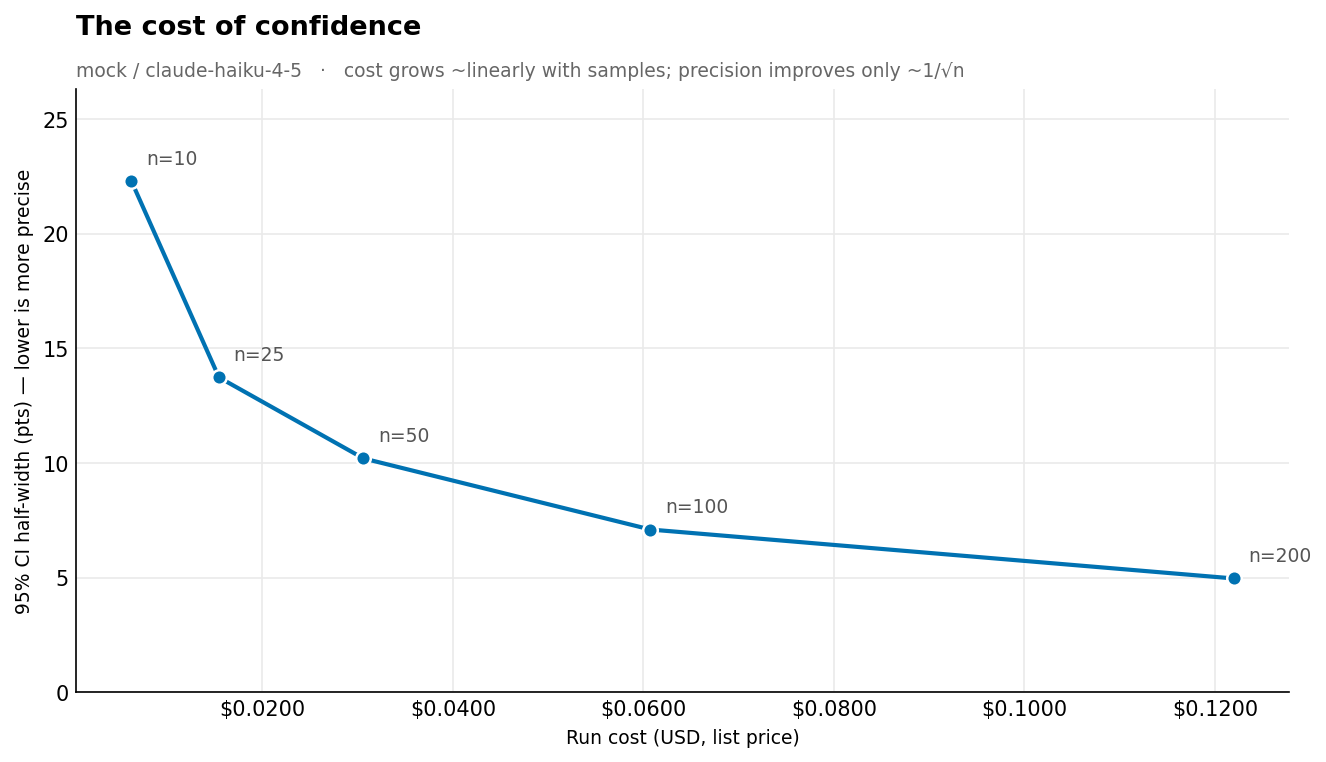
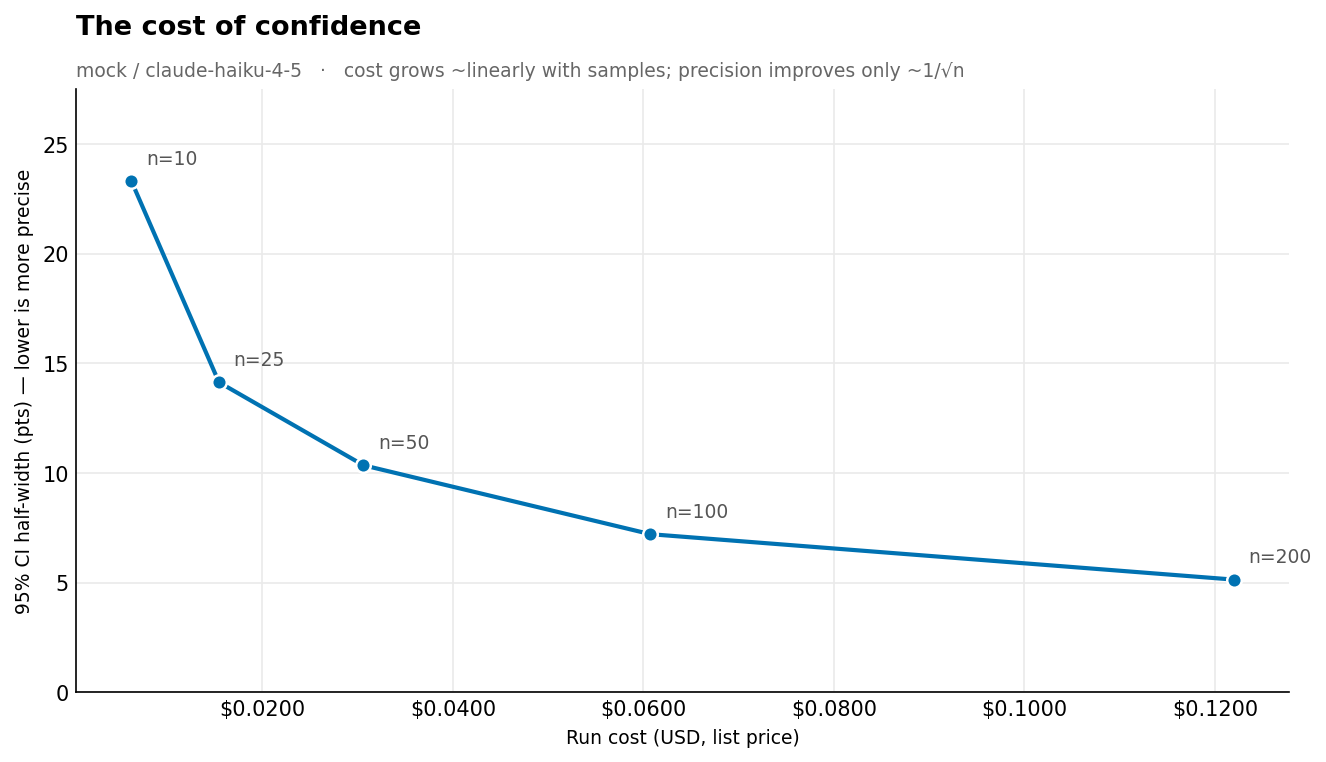
fix: make seeded runs reproducible under concurrency (closes #35)
Ports the llm-monitor-template fix (template #11 / PR #12) — three
order-dependencies that were reproducible here only by GIL-scheduling luck:

1. MockProvider shared one random.Random across the worker threads runner.py
   samples in. Guard the draws with a threading.Lock so one call takes a
   contiguous block of the sequence, rather than relying on the GIL not
   switching mid-call (which 3.13 breaks).
2. bootstrap_ci resampled outcomes by index, so a fixed seed returned a
   different interval for the same data in a different row order — quietly
   breaking re-derivability from the raw layer (ADR-0002). Sort before
   resampling; the CI is now a function of (k, n, seed).
3. mean_pairwise_jaccard accumulated with +=, so reordering runs shifted the
   last bit and could make two identical runs compare unequal. Use math.fsum.

Narrowed MockProvider's docstring to what the code can promise (a seed
reproduces the sampled distribution and every metric derived from it; per-index
assignment under concurrency is scheduling-dependent — concurrency=1 for
byte-identical raw). Added tests for the bag and the two order-independence
properties, which were untested.

Charts regenerated — the sorted bootstrap changes the CI realization. The
broader consistent-batch refresh (incl. ratings_ab.png) remains tracked in #32.

Generated by a Brave Little Toaster

diff --git a/tests/test_pipeline.py b/tests/test_pipeline.py
@@ -10,9 +10,9 @@ PRODUCERS = [
 UNIVERSE = [p["name"] for p in PRODUCERS]
 
 
-def _collect(seed=1, n=20):
+def _collect(seed=1, n=20, concurrency=4):
     return collect(["best napa cab?"], provider=MockProvider(seed=seed),
-                   model="claude-haiku-4-5", n=n, concurrency=4, seed=seed)
+                   model="claude-haiku-4-5", n=n, concurrency=concurrency, seed=seed)
 
 
 def test_collector_produces_raw_records():
@@ -23,10 +23,35 @@ def test_collector_produces_raw_records():
     assert sorted(r.sample_index for r in raw) == list(range(20))
 
 
-def test_collector_is_deterministic_with_seed():
-    a = [r.response_text for r in _collect(seed=1)]
-    b = [r.response_text for r in _collect(seed=1)]
+def test_collector_samples_the_same_distribution_for_a_seed():
+    """A seed reproduces the *bag* of responses, not the per-index assignment.
+
+    collect() samples concurrently, so which task wins which RNG draws is
+    scheduling-dependent — asserting list equality passes on 3.9/3.11 by GIL luck and
+    fails on 3.13. The bag is what the mock actually guarantees.
+    """
+    a = sorted(r.response_text for r in _collect(seed=1))
+    b = sorted(r.response_text for r in _collect(seed=1))
     assert a == b
+
+
+def test_collector_is_byte_identical_at_concurrency_1():
+    # With no concurrency there's no interleaving, so even per-index order is stable.
+    a = [r.response_text for r in _collect(seed=1, concurrency=1)]
+    b = [r.response_text for r in _collect(seed=1, concurrency=1)]
+    assert a == b
+
+
+def test_metrics_are_reproducible_for_a_seed():
+    # The point of the fix: even though per-index order may differ under concurrency,
+    # the derived share-of-voice is a function of the bag, so it's stable for a seed.
+    def sov(seed):
+        raw = _collect(seed=seed, n=30)
+        mentions = extract_stage(raw, build_patterns(PRODUCERS))
+        r = aggregate_stage(raw, mentions, UNIVERSE, seed=7)[0]
+        return {name: hits for name, (_, hits, _) in r["sov"].items()}
+
+    assert sov(3) == sov(3)
 
 
 def test_extract_only_returns_universe_producers():

diff --git a/wine_geo/providers.py b/wine_geo/providers.py
@@ -13,6 +13,7 @@ same seam.
 from __future__ import annotations
 
 import random
+import threading
 from dataclasses import dataclass
 from typing import Protocol, runtime_checkable
 
@@ -148,10 +149,17 @@ def _weighted_sample(
 
 
 class MockProvider:
-    """Deterministic-with-a-seed stand-in that mimics a stochastic model.
+    """Seeded stand-in that mimics a stochastic model.
 
-    Stamps the requested model onto each Completion so cost tracking shows real
-    numbers even in mock mode (default model is a cheap tier).
+    **What a seed reproduces:** the sampled *distribution* — and therefore every metric
+    derived from it (share-of-voice, confidence intervals, Jaccard), exactly. Stamps the
+    requested model onto each Completion so cost tracking shows real numbers even in mock
+    mode (default model is a cheap tier).
+
+    **What it does not:** which `sample_index` gets which response. `collect()` samples
+    concurrently, so the order threads take their draws is scheduling-dependent — the
+    *bag* of responses is stable, its order isn't. Pass `concurrency=1` for byte-identical
+    raw output.
     """
 
     name = "mock"
@@ -159,6 +167,7 @@ class MockProvider:
 
     def __init__(self, seed: int | None = None):
         self._rng = random.Random(seed)
+        self._lock = threading.Lock()
 
     def complete_batch(self, requests, *, poll_interval=0.0, timeout=0.0, log=None):
         """Offline batch: fulfill each request in order, no network, no waiting.
@@ -173,12 +182,19 @@ class MockProvider:
     def complete(self, prompt: str, *, model: str) -> Completion:
         names = list(_MOCK_WEIGHTS)
         weights = list(_MOCK_WEIGHTS.values())
-        k = self._rng.choice([2, 3, 3, 4])
-        picks = _weighted_sample(self._rng, names, weights, k)
+        # One call = one contiguous block of the RNG sequence. runner.py samples via
+        # asyncio.to_thread, so complete() runs on several worker threads sharing this
+        # generator; holding the lock across every draw keeps a call's draws contiguous,
+        # which is what makes the sampled distribution reproducible for a seed. Without it
+        # that holds only because the GIL rarely switches inside these short calls — luck,
+        # not a guarantee, and 3.13's scheduling breaks it.
+        with self._lock:
+            k = self._rng.choice([2, 3, 3, 4])
+            picks = _weighted_sample(self._rng, names, weights, k)
+            template = self._rng.choice(_MOCK_TEMPLATES)
         # Pad the template if we drew fewer than 3.
         while len(picks) < 3:
             picks.append(picks[-1])
-        template = self._rng.choice(_MOCK_TEMPLATES)
         text = template.format(a=picks[0], b=picks[1], c=picks[2])
         return Completion(
             text=text,

diff --git a/wine_geo/stats.py b/wine_geo/stats.py
@@ -61,6 +61,12 @@ def bootstrap_ci(
     n = len(outcomes)
     if n == 0:
         return (0.0, 0.0)
+    # Canonicalize before resampling. A proportion's empirical distribution is fully
+    # described by k/n, so row order is statistically irrelevant — but `outcomes[randrange]`
+    # reads it, so a fixed seed would otherwise return a different interval for the same data
+    # in a different order. Sorting makes the CI a function of (k, n, seed), which is what
+    # re-derivability from the raw layer requires (ADR-0002).
+    outcomes = sorted(outcomes)
     rng = random.Random(seed)
     means = sorted(
         sum(outcomes[rng.randrange(n)] for _ in range(n)) / n for _ in range(iters)
@@ -78,8 +84,12 @@ def mean_pairwise_jaccard(sets: list[set[str]]) -> float:
     pairs = list(combinations(range(len(sets)), 2))
     if not pairs:
         return 1.0
-    total = 0.0
+    scores = []
     for i, j in pairs:
         union = sets[i] | sets[j]
-        total += 1.0 if not union else len(sets[i] & sets[j]) / len(union)
-    return total / len(pairs)
+        scores.append(1.0 if not union else len(sets[i] & sets[j]) / len(union))
+    # fsum, not sum: reordering `sets` yields the same multiset of pairwise scores but adds
+    # them in a different order, and `+=` rounds at each step — enough to shift the last bit
+    # and make two identical runs compare unequal. fsum rounds once, off the exact total, so
+    # the result depends only on the multiset. (Also just more accurate.)
+    return math.fsum(scores) / len(pairs)

diff --git a/tests/test_stats.py b/tests/test_stats.py
@@ -20,6 +20,13 @@ def test_bootstrap_ci_empty():
     assert bootstrap_ci([], seed=1) == (0.0, 0.0)
 
 
+def test_bootstrap_ci_is_order_independent():
+    # Re-deriving from reordered raw rows must not move the interval (ADR-0002).
+    outcomes = [1, 0, 1, 1, 0, 1, 0, 0, 1, 1]
+    shuffled = [0, 1, 1, 1, 1, 0, 1, 0, 0, 1]  # same multiset, different order
+    assert bootstrap_ci(outcomes, seed=3) == bootstrap_ci(shuffled, seed=3)
+
+
 def test_jaccard_identical_and_disjoint():
     assert mean_pairwise_jaccard([{"A"}, {"A"}]) == 1.0
     assert mean_pairwise_jaccard([{"A"}, {"B"}]) == 0.0
@@ -28,3 +35,11 @@ def test_jaccard_identical_and_disjoint():
 
 def test_jaccard_single_run_defaults_to_one():
     assert mean_pairwise_jaccard([{"A", "B"}]) == 1.0
+
+
+def test_jaccard_is_order_independent():
+    # fsum makes the mean depend only on the multiset of pairwise scores, not row order,
+    # so two identical runs whose rows arrive reordered still compare exactly equal.
+    sets = [{"A", "B"}, {"B", "C"}, {"A"}, {"C", "D"}, {"A", "B", "C"}]
+    reordered = [sets[i] for i in (3, 0, 4, 1, 2)]
+    assert mean_pairwise_jaccard(sets) == mean_pairwise_jaccard(reordered)